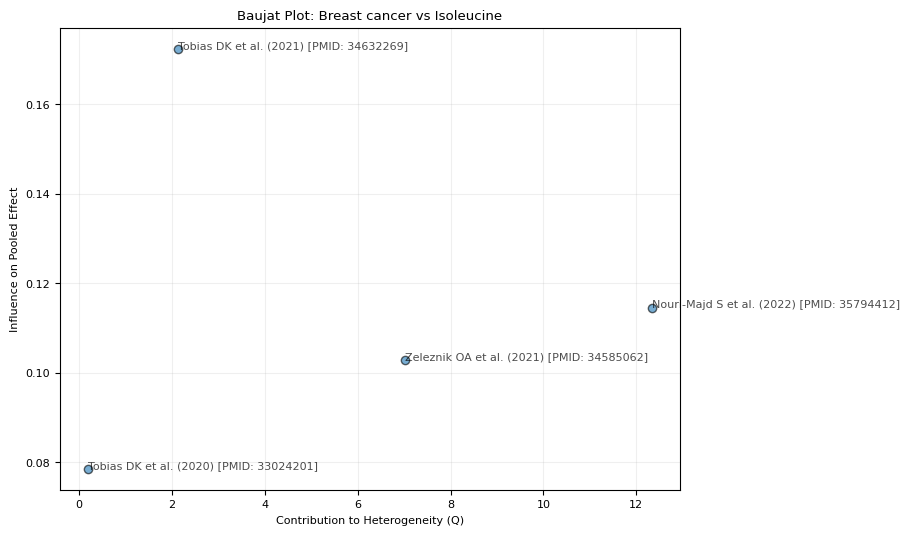
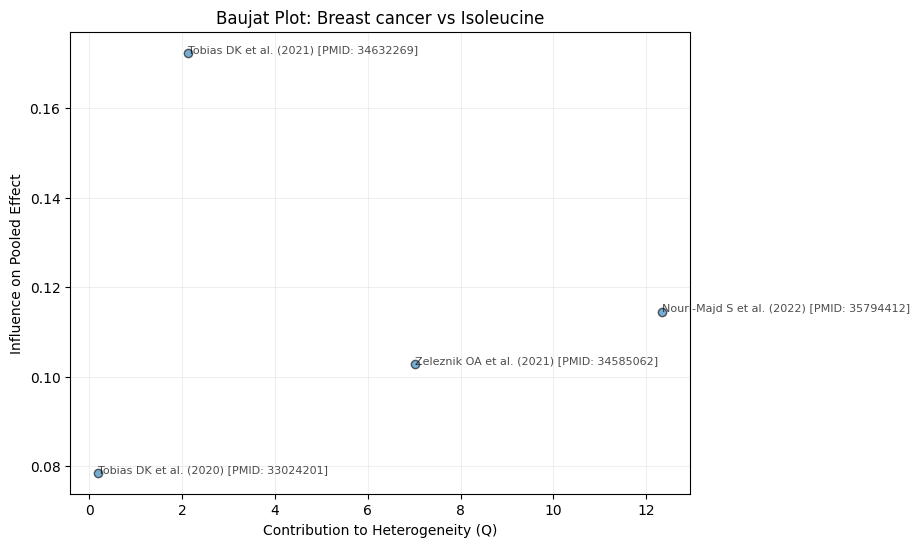
update

Changed region(s): [[0.0, 0.0, 0.9857, 0.9869], [0.4312, 0.628, 0.7085, 0.6879]]

diff --git a/templates/about.html b/templates/about.html
@@ -255,12 +255,10 @@
         <p>
             <strong>Scoring Criteria:</strong>
         <ul>
-            <li><strong>Score %:</strong> Calculated as the percentage of items rated as "Yes" (items rated "NA" are
-                excluded from the calculation).</li>
-            <li><strong>Good:</strong> > 80% of items rated as "Yes".</li>
-            <li><strong>Moderate:</strong> 51% - 80% of items rated as "Yes".</li>
-            <li><strong>Fair:</strong>
-                < 50% of items rated as "Yes" .</li>
+            <li><strong>Score %:</strong> Calculated as the percentage of items rated as "Yes" (items rated "NA" are excluded from the calculation).</li>
+            <li><strong>Good:</strong> &gt; 80% of items rated as "Yes" (i.e., 80.1% or higher).</li>
+            <li><strong>Moderate:</strong> 51% to 80% of items rated as "Yes" (i.e., 51.0% to 80.0% inclusive).</li>
+            <li><strong>Fair:</strong> &lt; 51% of items rated as "Yes" (i.e., 50.9% or lower; this includes exactly 50.0%).</li>
         </ul>
         </p>
         <p style="font-size: 0.85rem; color: #666; font-style: italic; margin-top: 10px; line-height: 1.5;">
